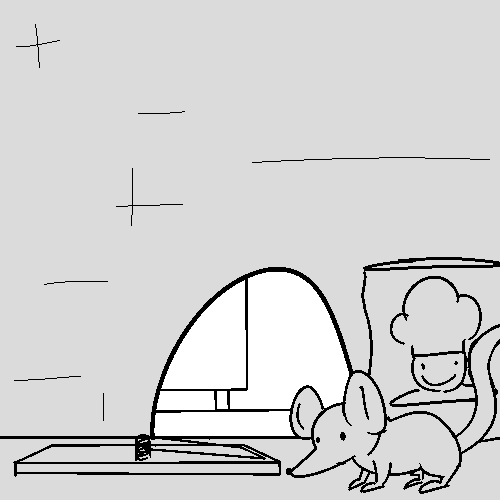
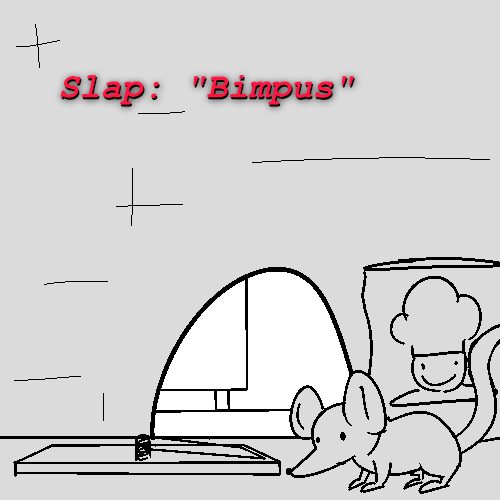
retcon 001

Changed region(s): [[0.36, 0.15, 0.72, 0.24], [0.12, 0.15, 0.33, 0.24]]

diff --git a/ratquest.html b/ratquest.html
@@ -24,7 +24,7 @@
 
 <body>
     <h1>Bimpus Quest Part ONE</h1>
-    <h2>This is the "quest" of a common rat</h2>
+    <h2>This is the story of a rat and his quest... to live like one</h2>
     <p>Please be aware this is probably not a mobile-friendly page</p>
     <div class=center>
         <img id="panel large" src="./img/bimpusQuest_logo.gif"></img>
@@ -33,11 +33,10 @@
         <img id="panel large" src="./img/ratquest/002.png"></img>
         <h3>slap: "Bimpus"</h3>
         <p>
-            A rat's purpose is far less complex to a human's, but in return they
-            live in a world far larger in their rightful perspective. What outer space is to us humans is what Earth
-            alone is to the rats. Bimpus is just another ordinary rat who share's the same situation of life, no
-            different toany other rat. His goal is to EAT WHATEVER HE CAN FIND and possibly FIND A MATE. Preferably,
-            this is BEST BEFORE THE FOOD CHAIN GETS TO HIM or otherwise. How will he go in doing so?</p>
+            This is Bimpus. He is a nimble RAT who is on an IMPORTANT QUEST to: eat FOOD, find a MATE and ENJOY his rat
+            life. How will his day start out?
+
+        </p>
         <p>~~~~~~~~~~~~~</p>
         <img id="panel" src="./img/ratquest/003 Mi5KL.png"></img>
         <h3>Mi5KL: step on trap</h3>
@@ -46,42 +45,29 @@
         <p>~~~~~~~~~~~~~</p>
         <img id="panel" src="./img/ratquest/003 slim.png"></img>
         <h3>slim: cum</h3>
+        <p>Bimpus's HORNEY METER is currently at 1/10. If Bimpus reaches 7/10 HORNY he gains gives access to his LIMIT
+            BREAK: COOM
 
-        <p>Bimpus's HORNEY METER is currently at 1/10. In order to use your LIMIT: COOM, you must build meter to at
-            least
-            7/10</p>
+        </p>
         <p>~~~~~~~~~~~~~</p>
         <img id="panel" src="./img/ratquest/003 doc and eggy.png "></img>
         <h3>Eggy: eat chef boyardee</h3>
-
-        <p>The CAN OF FLAVOURISHIOUS LUCIANO has a SMALL PEBBLE inside it. Otherwise, there's a picture of a devilishly
-            handsome young man with a wonderful hat. They say he's done something, but what he had done is unspoken of.
-        </p>
-        <p>
-            The pebble is added to your INVENTORY (0/2 => 1/2)
-        </p>
         <h3>Doctagon: put can on top of trap</h3>
-
-        <p>
-            The CAN and the WROTHLESS BENCH PRESS create a BUNKER ON A STAND! Maybe if this thing had WHEELS it would
-            operate like an automobile
+        <p>Bimpus likes the idea of being taller. The CAN OF FLAVOURISHIOUS LUCIANO has a SMALL PEBBLE inside it and is
+            added to Bimpus's inventory (1/2). There's a picture of a DEVILISHLY HANDSOME young man with a wonderful
+            hat. They say he's done something to them, but who "them" is and what he had done is unspoken of.
         </p>
         <p>~~~~~~~~~~~~~</p>
         <img id="panel" src="./img/ratquest/003 grudge.png"></img>
         <h3>Grudge: find rat gf</h3>
 
-        <p>Bimpus dreams of one day being more active with the rest of the colony to find that special someone to love
-            like
-            there's no tomorrow. Someone to never let him go and mean it when she says she loves him. Hopefully he will
-            wake
-            up one day with a beautiful rat wife snuggled next to him, tangled whiskers and everything. But right now,
-            it's
-            just him: Bimpus in his hole </p>
-        <p>
-            Perhaps now is the time to go hunting for rat gf's... but where? What does Bimpus know alone?
+        <p>There are no RAT BABES to be found. The unspoken rule of reality found in all walks in life is that finding a
+            MATE is very hard if you don't have anything to show, which is the current state of affairs. It's advised to
+            WATCH OUT FOR RAT BABES... but there's a chance they could be right outside Bimpus's little door
         </p>
         <img id="panel" src="./img/ratquest/003 prompt.png"></img>
-        <h3>You hear something outside. The shaking it generates is as powerful as a human's</h3>
+        <h3>Could it be? RAT BABES at this fine hour?
+        </h3>
         <p>~~~~~~~~~~~~~</p>
         <img id="panel" src="./img/ratquest/kshRatQuest004 eggy.png"></img>
         <h3>Eggy: peek out the cubby-hole to investigate</h3>
